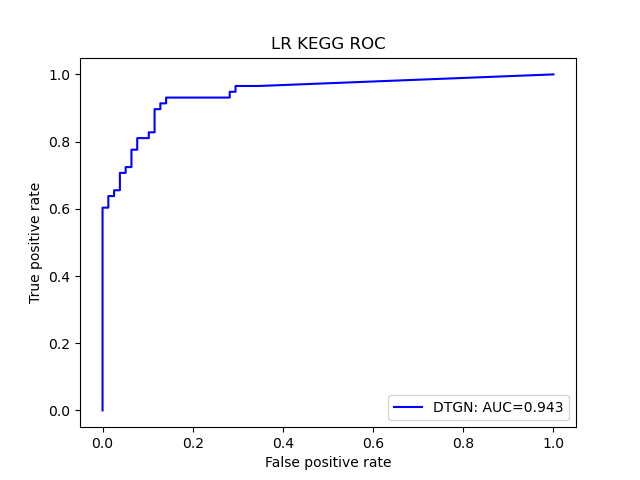
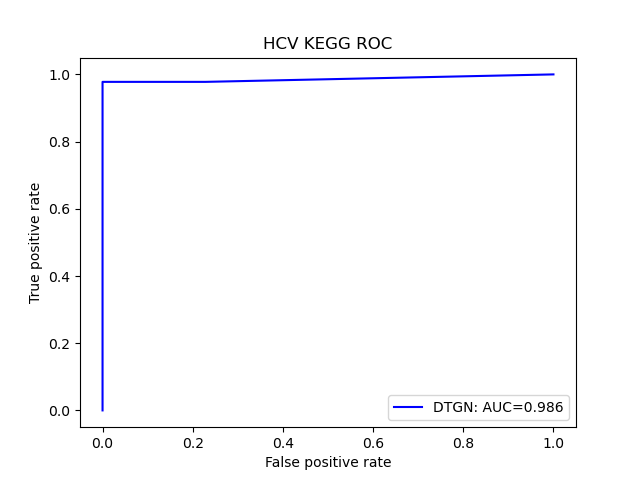
Add necessary method comments

Changed region(s): [[0.1562, 0.1562, 0.8125, 0.4375], [0.4062, 0.0625, 0.625, 0.125], [0.8438, 0.8438, 0.875, 0.875]]

diff --git a/evaluation/pathways_roc.py b/evaluation/pathways_roc.py
@@ -78,10 +78,10 @@ def pathway_roc(dataset, name, stage, type="min"):
 
 
 if __name__ == '__main__':
-    dataset = "LR"
+    dataset = "HCV"
     draw_data = {}
 
-    fpr, tpr, auroc = pathway_roc(dataset, "LR", stage=7, type="min")
+    fpr, tpr, auroc = pathway_roc(dataset, "HCV16", stage=5, type="mean")
     draw_data[f'DTGN: AUC={auroc}'] = (fpr, tpr)
 
     draw_roc(draw_data, title=f"{dataset} KEGG ROC", smooth=False,

diff --git a/README.md b/README.md
@@ -73,7 +73,18 @@ You can use the DTGN model in two ways:
       | MI  | 6          | 32,8,2        | 2,8,32        |
       | HCV | 5          | 24,8,2        | 2,8,24        |
 
-- Step 4: The output files are stored in the "./out/name/" directory.
+- Step 4: Predict the phenotype-specific TFs in each stage
+  ```bash
+  dtgn-tf --name LR --num_stages 10 --permutation_times 10000
+  ```
+  The output files are stored in the "./out/name/" directory.
+  
+- Step 5: Predict the phenotype-specific pathways in each stage
+  ```bash
+  dtgn-pw --dataset LR --name LR --num_stages 10 --permutation_times 2000 --threshold 0.01 --pathway_path "./data/LR/pathways_genes.csv"
+  ```
+  The output files are stored in the "./out/name/" directory.
+
 
 
 ### 3.2.2 Using command line
